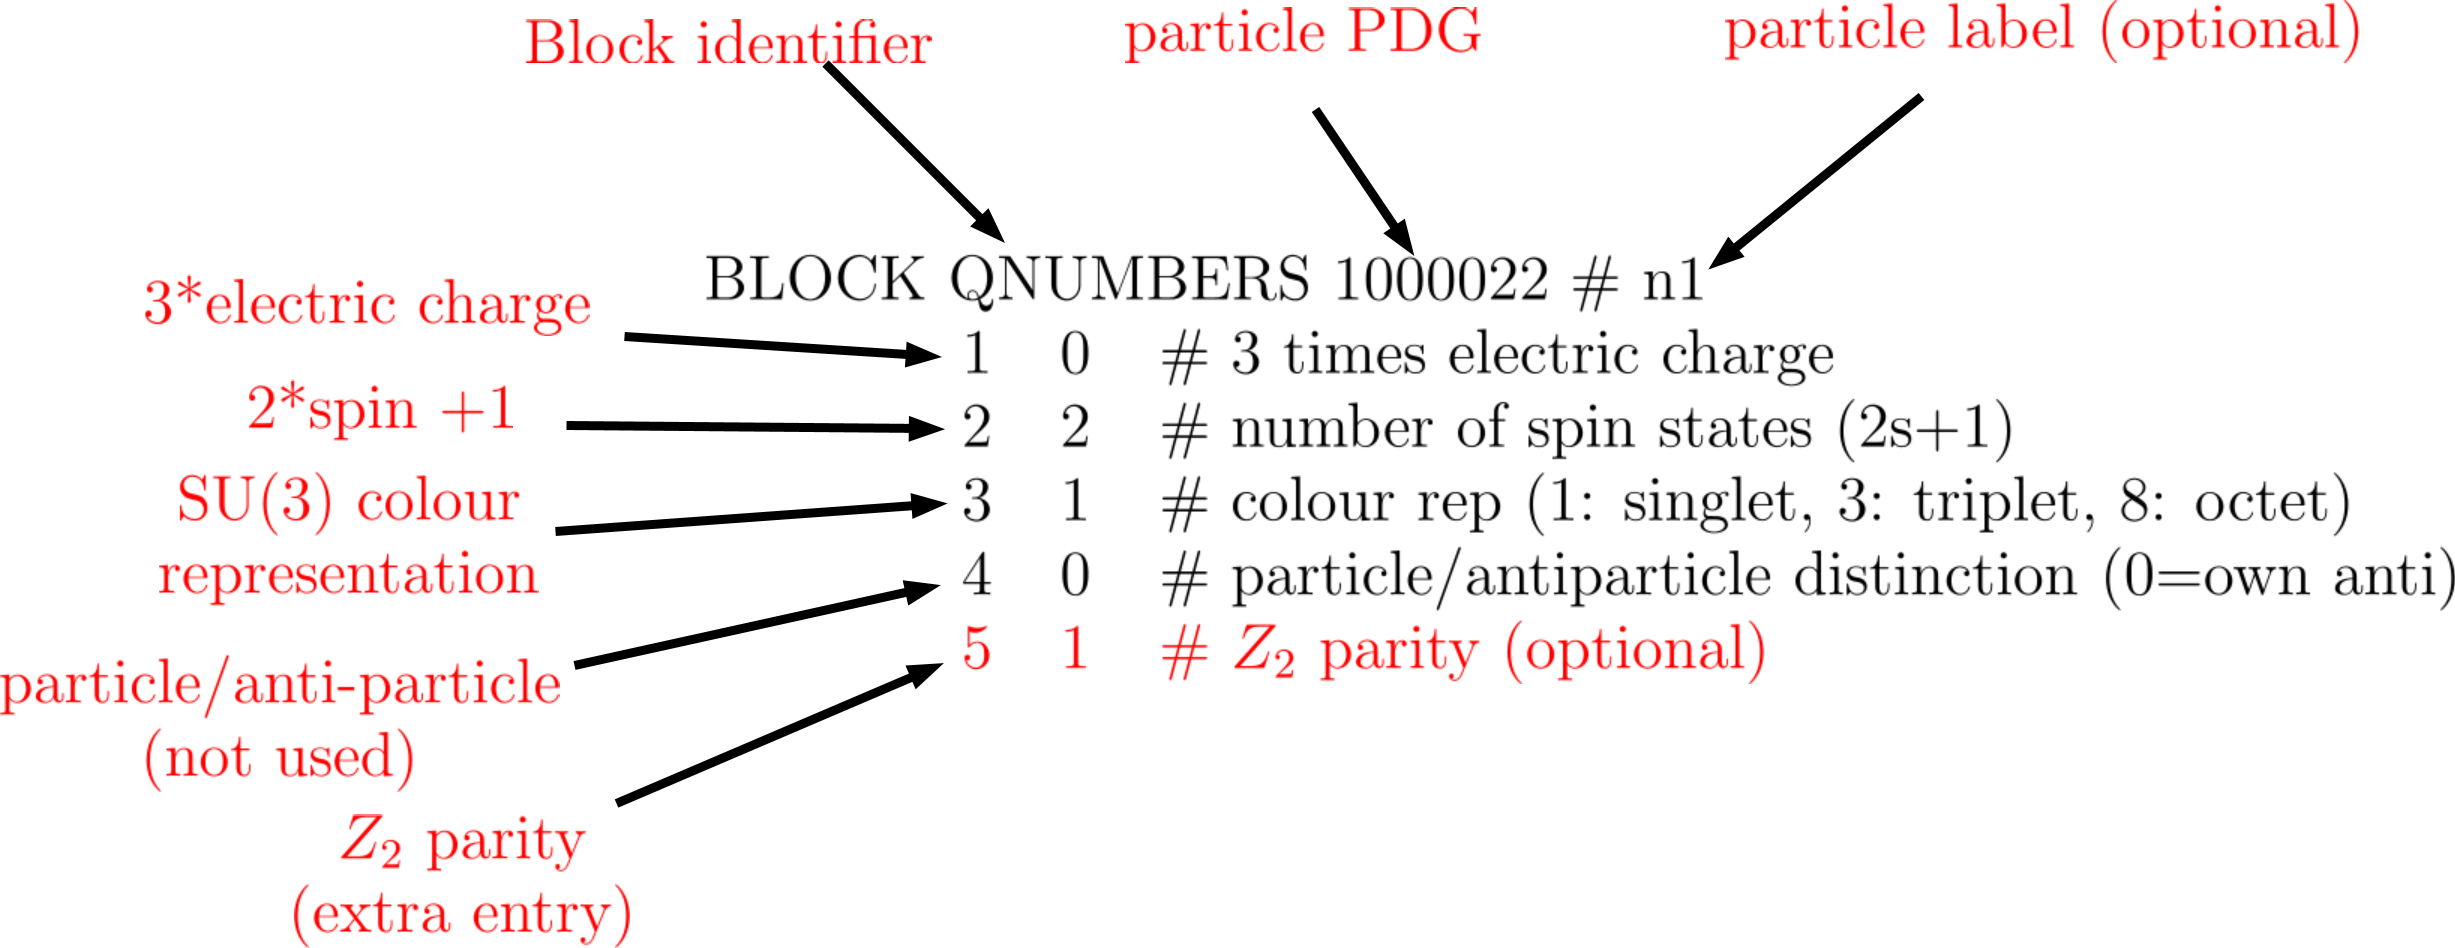
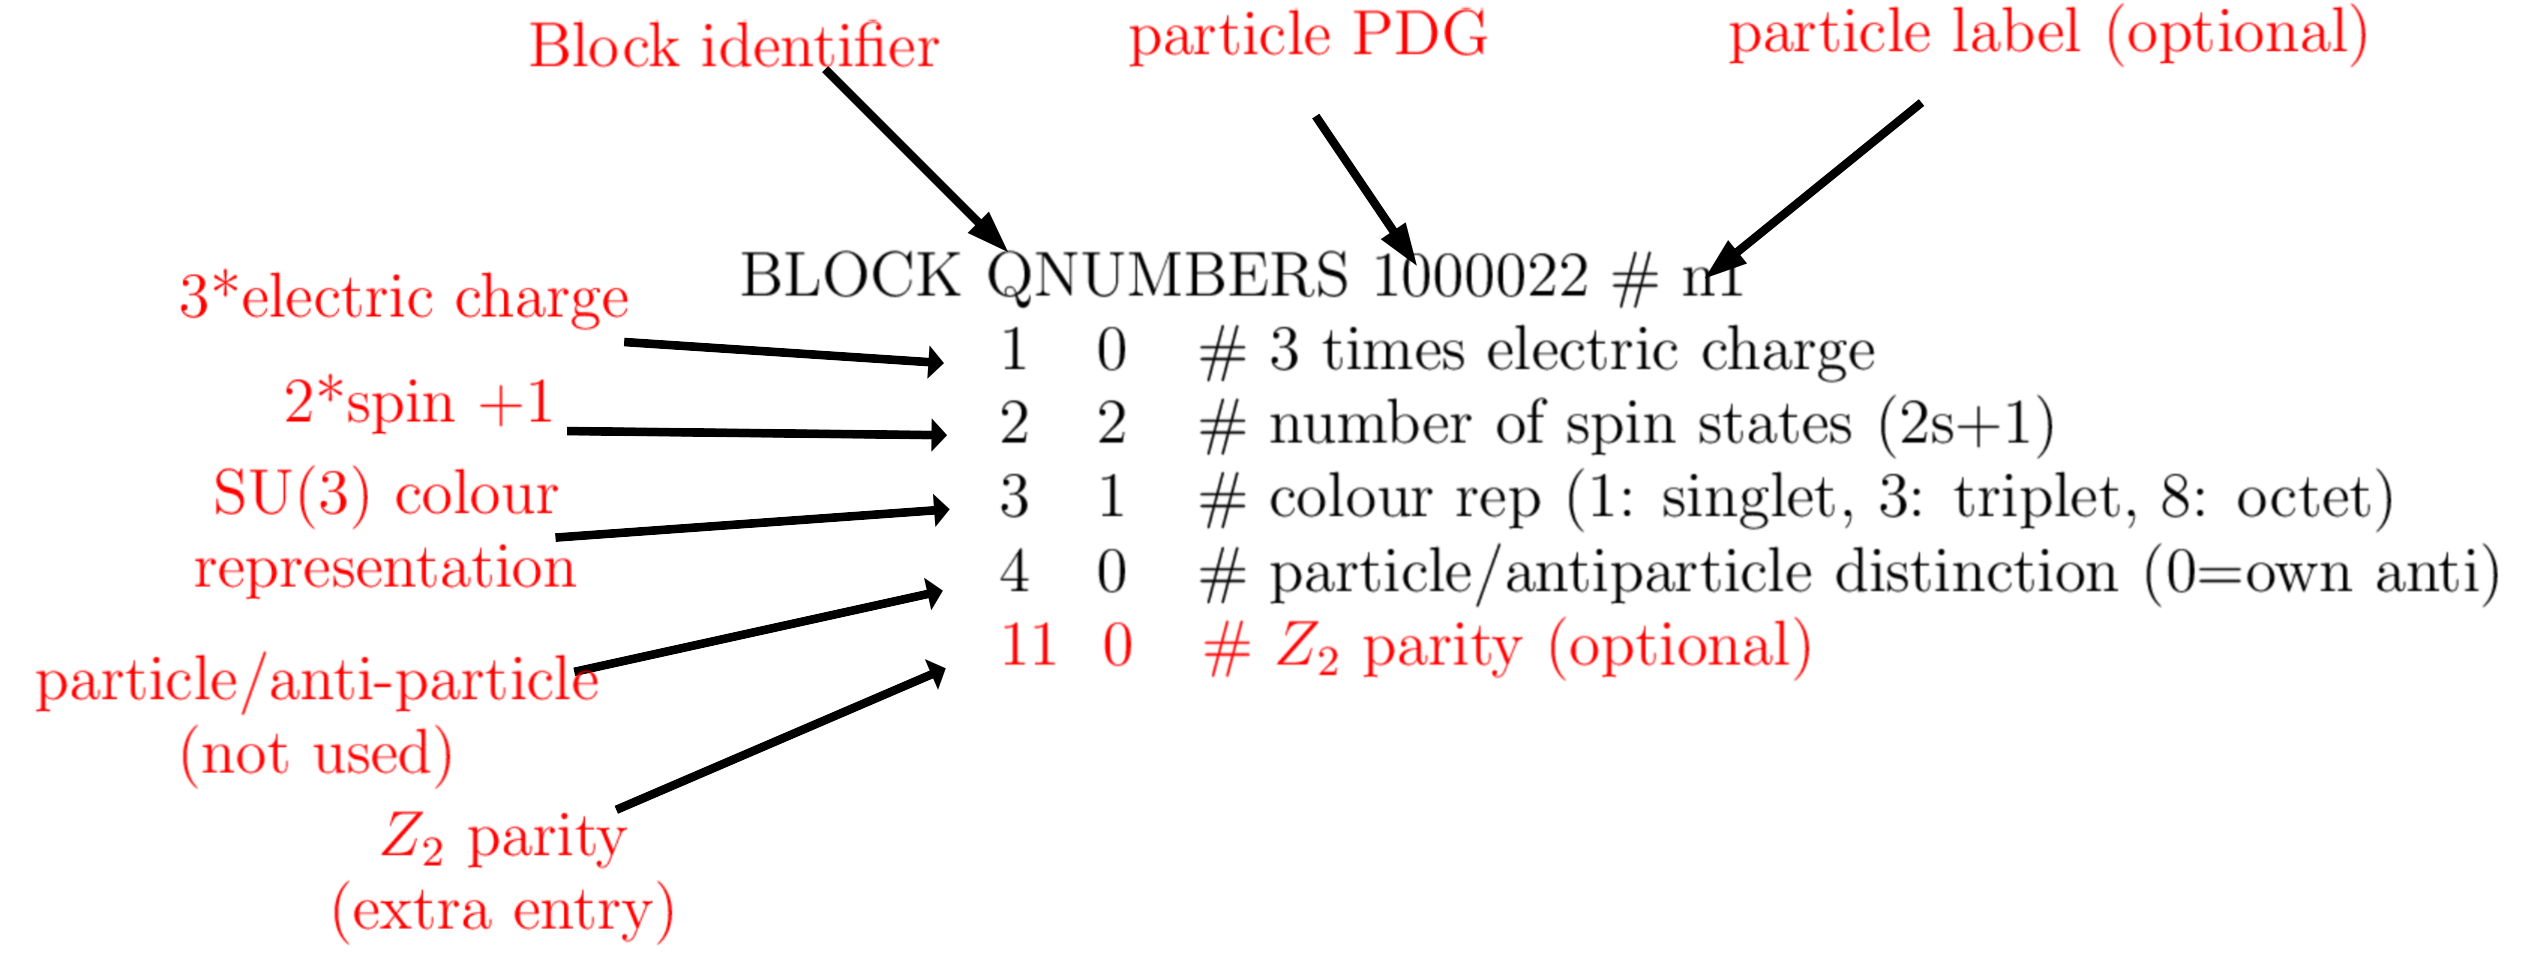
FIX in model.py. Changed Z2 conventions in qnumbers

diff --git a/smodels/share/models/dgmssm.py b/smodels/share/models/dgmssm.py
@@ -30,7 +30,7 @@ st2 = Particle(Z2parity=-1, label='st_2', pdg=2000006, eCharge=2./3, colordim=3,
 #1st generation sleptons and its conjugates:
 sel = Particle(Z2parity=-1, label='se_L', pdg=1000011, eCharge=-1, colordim=1, spin=0)
 snel = Particle(Z2parity=-1, label='sne_L', pdg=1000012, eCharge=0, colordim=1, spin=0)
-ser = Particle(Z2parity=-1, label='se_R', pdg=2000011, eCharge=0, colordim=1, spin=0)
+ser = Particle(Z2parity=-1, label='se_R', pdg=2000011, eCharge=-1, colordim=1, spin=0)
 
 #2nd generation sleptons and its conjugates:
 smul = Particle(Z2parity=-1, label='smu_L', pdg=1000013, eCharge=-1, colordim=1, spin=0)

diff --git a/smodels/share/models/mssm.py b/smodels/share/models/mssm.py
@@ -31,7 +31,7 @@ st2 = Particle(Z2parity=-1, label='st_2', pdg=2000006, eCharge=2./3, colordim=3,
 #1st generation sleptons and its conjugates:
 sel = Particle(Z2parity=-1, label='se_L', pdg=1000011, eCharge=-1, colordim=1, spin=0)
 snel = Particle(Z2parity=-1, label='sne_L', pdg=1000012, eCharge=0, colordim=1, spin=0)
-ser = Particle(Z2parity=-1, label='se_R', pdg=2000011, eCharge=0, colordim=1, spin=0)
+ser = Particle(Z2parity=-1, label='se_R', pdg=2000011, eCharge=-1, colordim=1, spin=0)
 
 #2nd generation sleptons and its conjugates:
 smul = Particle(Z2parity=-1, label='smu_L', pdg=1000013, eCharge=-1, colordim=1, spin=0)

diff --git a/smodels/particlesLoader.py b/smodels/particlesLoader.py
@@ -91,9 +91,9 @@ def getParticlesFromSLHA(slhafile):
                                 colordim=numbers[3],
                                 spin=(numbers[2]-1.)/2.)
 
-        #Allows a 5-th quantum number defining the Z2-parity:
-        if 5 in numbers:
-            newParticle.Z2parity = numbers[5]
+        #Allows an additional quantum number defining the Z2-parity:
+        if 11 in numbers:
+            newParticle.Z2parity = int((-1)**int(numbers[11]))
         BSMList.append(newParticle)
         if numbers[4]: #Particle is not its own anti-particle
             newParticleC = newParticle.chargeConjugate()

diff --git a/smodels/share/models/nmssm.py b/smodels/share/models/nmssm.py
@@ -32,7 +32,7 @@ st2 = Particle(Z2parity=-1, label='st_2', pdg=2000006, eCharge=2./3, colordim=3,
 #1st generation sleptons and its conjugates:
 sel = Particle(Z2parity=-1, label='se_L', pdg=1000011, eCharge=-1, colordim=1, spin=0)
 snel = Particle(Z2parity=-1, label='sne_L', pdg=1000012, eCharge=0, colordim=1, spin=0)
-ser = Particle(Z2parity=-1, label='se_R', pdg=2000011, eCharge=0, colordim=1, spin=0)
+ser = Particle(Z2parity=-1, label='se_R', pdg=2000011, eCharge=-1, colordim=1, spin=0)
 
 
 #2nd generation sleptons and its conjugates:

diff --git a/smodels/theory/model.py b/smodels/theory/model.py
@@ -345,8 +345,7 @@ class Model(object):
             if ndecays == 0:
                 if p.Z2parity == -1:
                     logger.warning("No valid decay found for %s. It will be considered stable." %p)
-                particle.totalwidth = 0.*GeV
-                continue
+                p.totalwidth = 0.*GeV
 
     def updateParticles(self, inputFile, promptWidth = None, stableWidth = None,
                         roundMasses = 1, erasePrompt=['spin','eCharge','colordim']):
